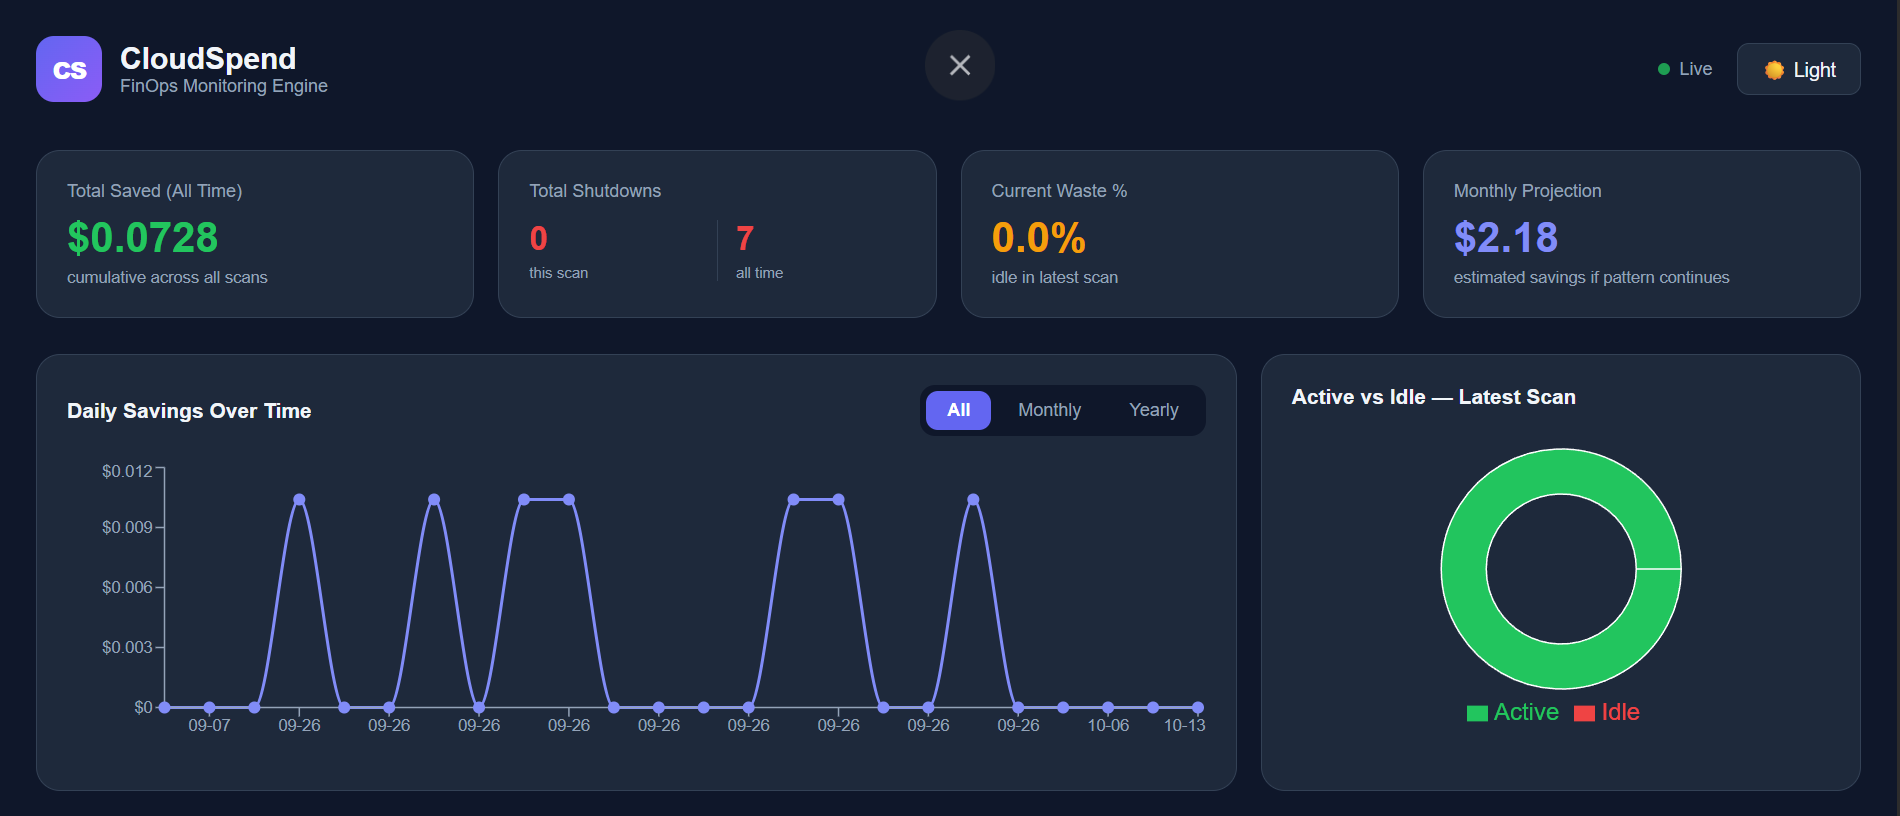
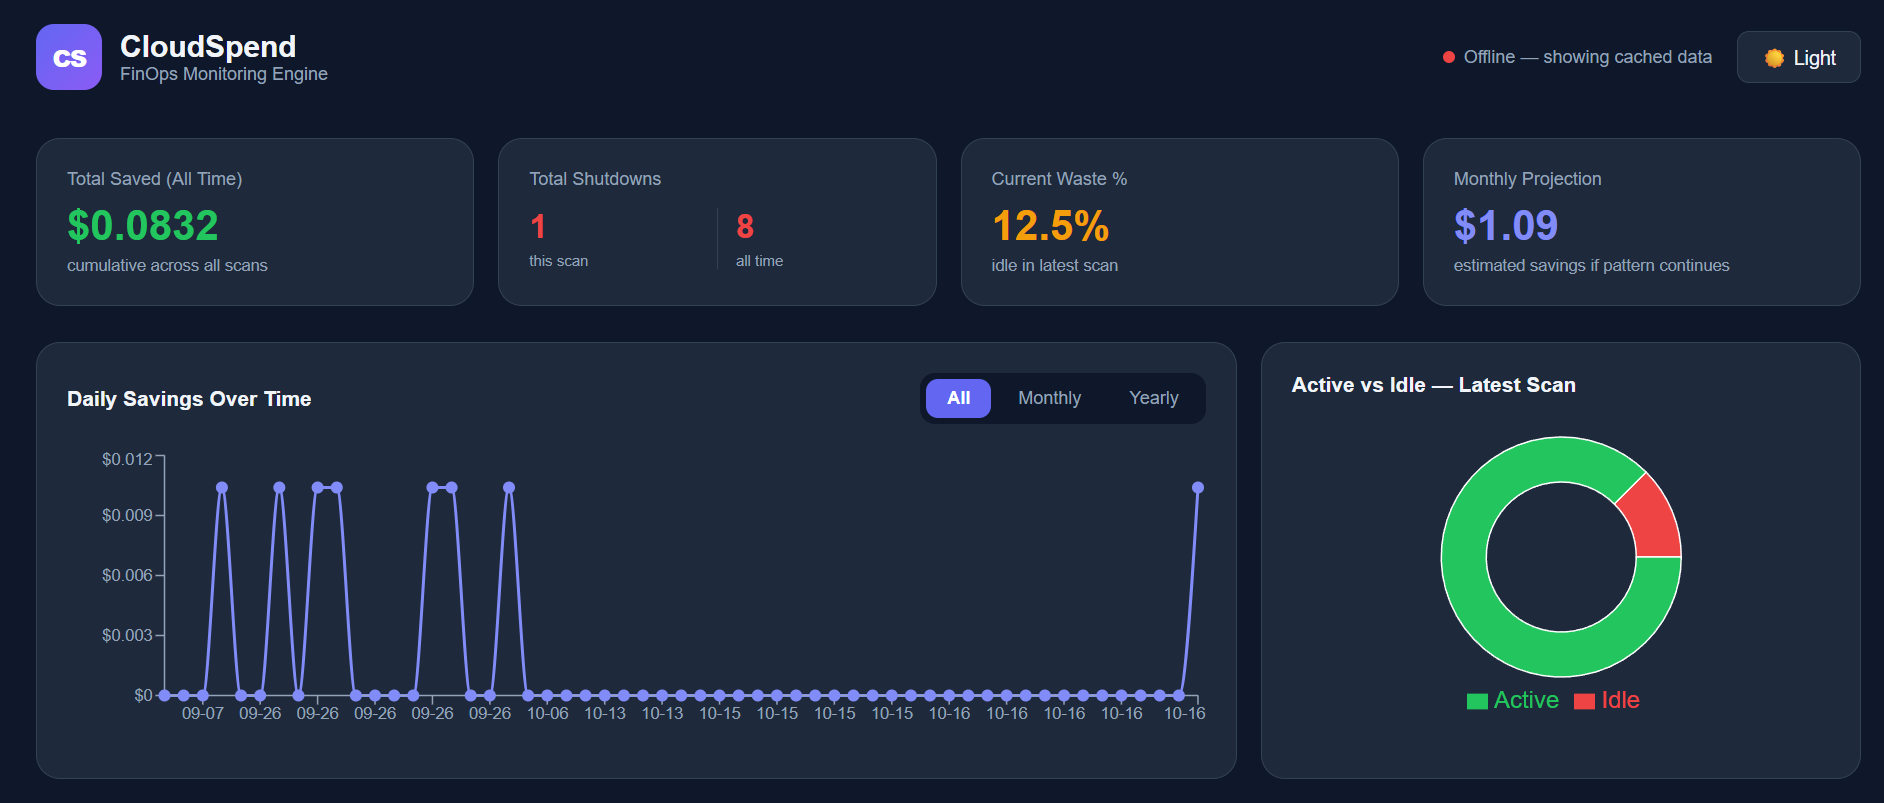
Fix cloud adapters and add multi-cloud documentation with screenshots

diff --git a/README.md b/README.md
@@ -317,7 +317,7 @@ Displays charts:
 
 ## Live Scan Output
 
-![Scheduler Output](scheduler-output.png)
+![Scheduler Output](screenshots/scheduler-output.png)
 *Figure 3: Multi-cloud scan output from APScheduler showing instances detected across AWS, GCP, and Azure with real-time metrics and idle detection*
 
 ---
